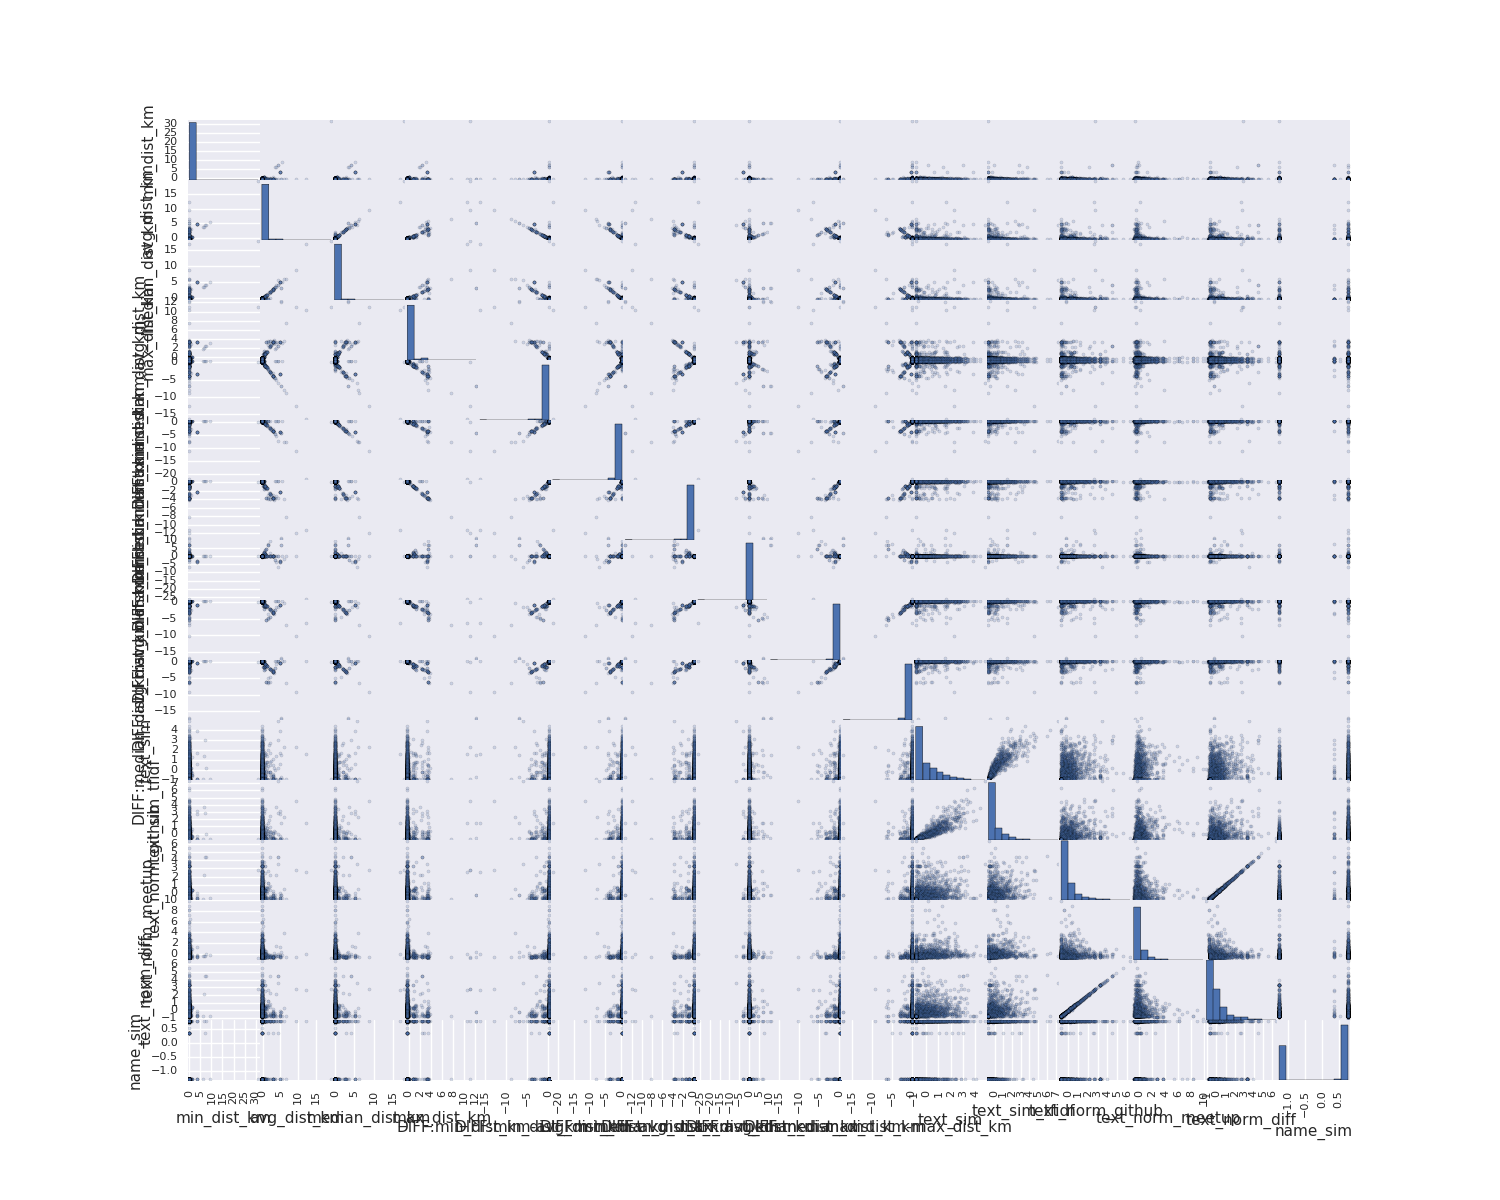
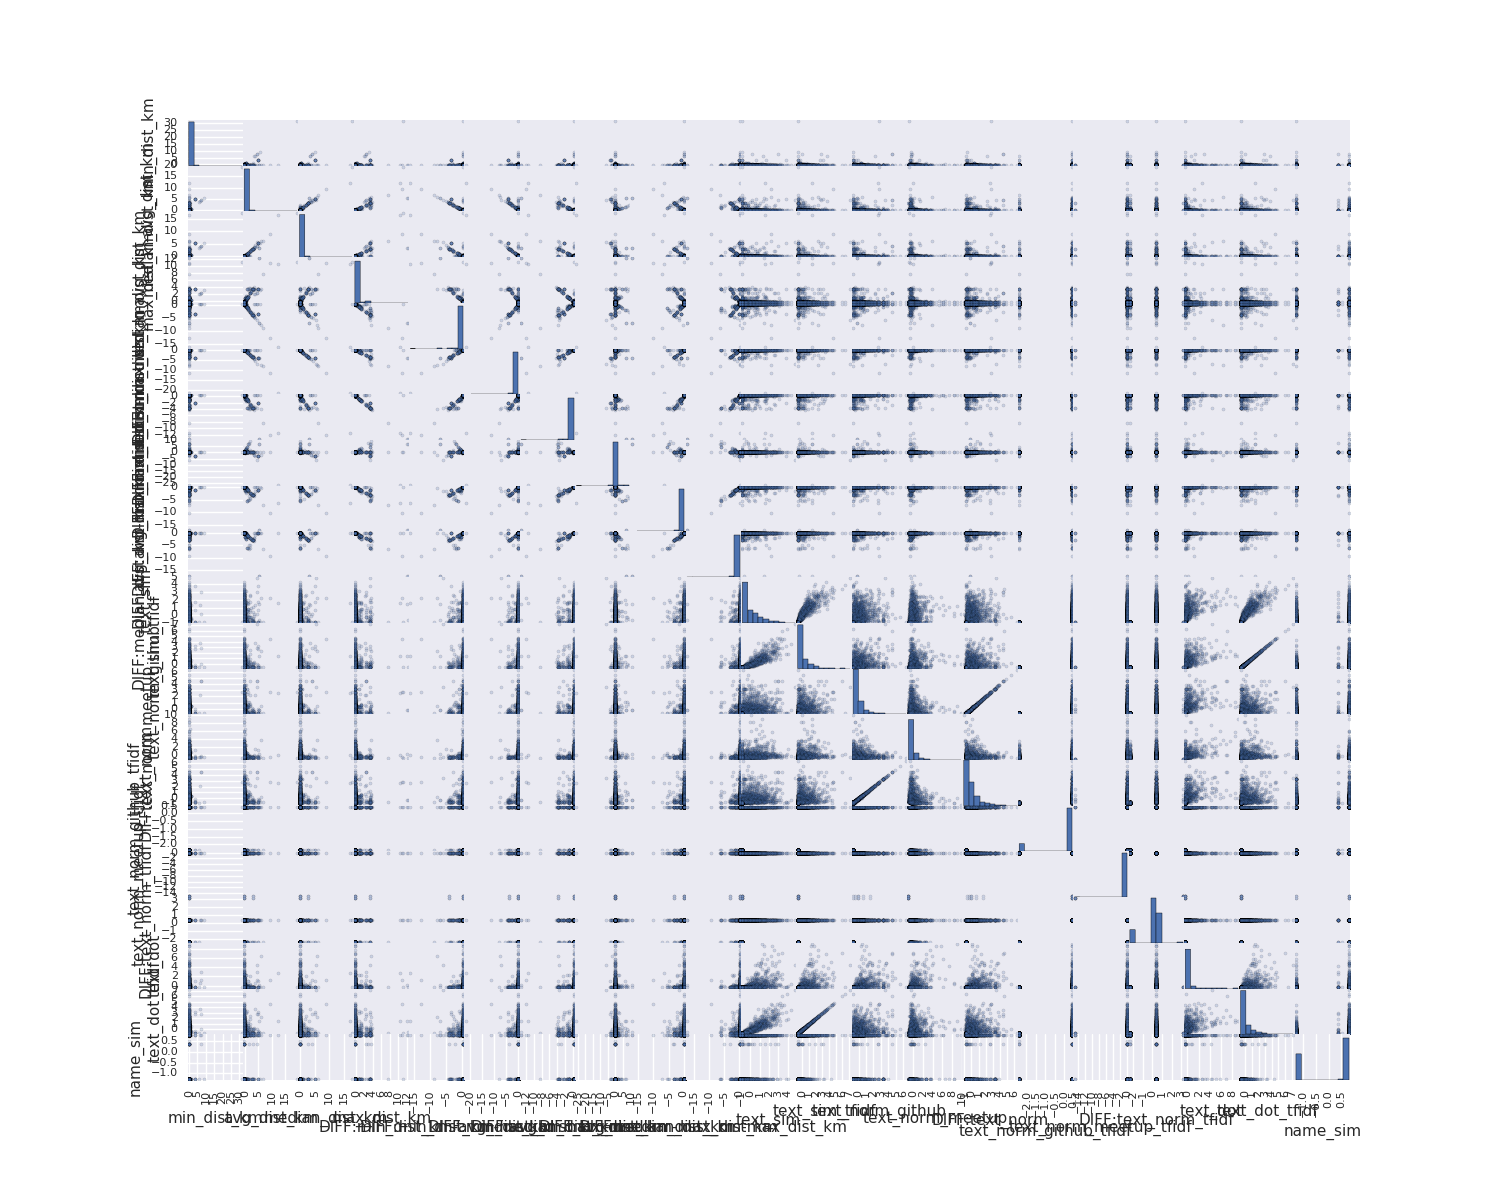
dot_products (not helping)

diff --git a/src/text_aggregate.py b/src/text_aggregate.py
@@ -34,7 +34,17 @@ class all(object):
 
         df_X['text_norm_github'] = [norm(x) for x in X_github]
         df_X['text_norm_meetup'] = [norm(x) for x in X_meetup]
-        df_X['text_norm_diff'] = df_X['text_norm_github'] - \
+        df_X['DIFF:text_norm'] = df_X['text_norm_github'] - \
                                  df_X['text_norm_meetup']
+
+        df_X['text_norm_github_tfidf'] = [norm(x) for x in X_github_tfidf]
+        df_X['text_norm_meetup_tfidf'] = [norm(x) for x in X_meetup_tfidf]
+        df_X['DIFF:text_norm_tfidf'] = df_X['text_norm_github_tfidf'] - \
+                                       df_X['text_norm_meetup_tfidf']
+
+        df_X['text_dot'] = [np.dot(x1, x2.T)[0][0,0] for x1, x2
+                                                    in zip(X_github, X_meetup)]
+        df_X['text_dot_tfidf'] = [np.dot(x1, x2.T)[0][0,0] for x1, x2
+                                        in zip(X_github_tfidf, X_meetup_tfidf)]
 
         return df_X

diff --git a/src/model.py b/src/model.py
@@ -180,7 +180,7 @@ def model(df_clean, write=False, accuracy_only=True):
     """
     df_X_train, df_X_test, y_train, y_test = train_test_split(df_copy, y,
                                                 test_size=0.5, random_state=0)
-    print '# Train Obs:', len(y_train)
+    print '\n# Train Obs:', len(y_train)
     print '# Test Obs: ', len(y_test)
 
     # suppress warning (that changes to df_X_train and df_X_test won't make it
